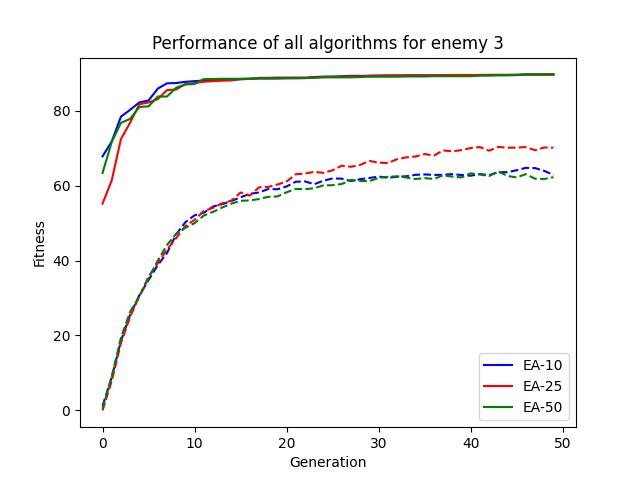
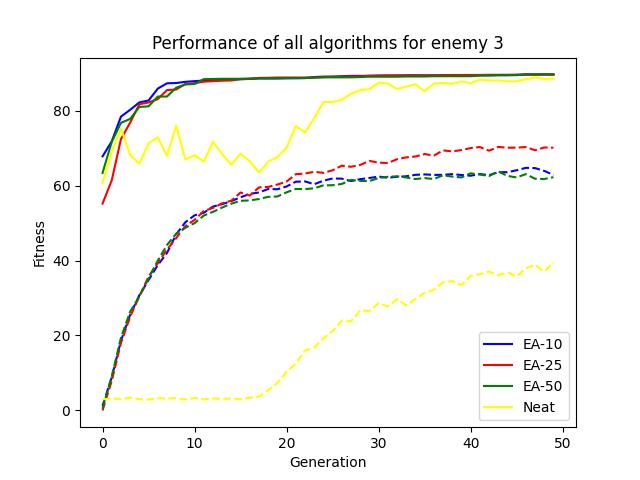
added neat results and added them to plot

diff --git a/ea_visualisations.py b/ea_visualisations.py
@@ -18,25 +18,36 @@ def add_mean_max(mean_fit_gen, max_fit_gen, name, color):
     plt.plot(mean_fit_gen, linestyle='--', color=color)
     plt.plot(max_fit_gen, linestyle='-', color=color, label=name)
 
+def select_mean_max(df, enemy):
+    if df.name == 'Neat':
+            df2 = df.loc[df['Enemy'] == enemy]
+            mean_fit_gen = df2['Mean'].reset_index(drop=True)
+            max_fit_gen = df2['Best'].reset_index(drop=True)
+    else:
+        df2 = df.loc[df['Enemy'] == enemy]
+        mean_fit_gen = df2.groupby('Gen')['Mean_fit'].mean()
+        max_fit_gen = df2.groupby('Gen')['Max_fit'].mean()
+    return (mean_fit_gen, max_fit_gen)
 
 def plot_enemy(total_df, enemy):
     """Creates a plot for each enemy, including all types of algorithms and their
        mean and max fitness values. 
     """
+    # create the plot 
     plt.plot()
     plt.title(f"Performance of all algorithms for enemy {enemy}")
     plt.xlabel("Generation")
     plt.ylabel("Fitness")
 
     for df in total_df:
-        df2 = df.loc[df['Enemy'] == enemy]
-        mean_fit_gen = df2.groupby('Gen')['Mean_fit'].mean()
-        max_fit_gen = df2.groupby('Gen')['Max_fit'].mean()
-        add_mean_max(mean_fit_gen, max_fit_gen, df.name, df.color)
+        # select the mean and max fitness for each generation
+        mean_fit, max_fit = select_mean_max(df, enemy)
+        # add mean and max values to the plot 
+        add_mean_max(mean_fit, max_fit, df.name, df.color)
+    
     plt.legend()
     plt.savefig(f'fig_enemy_{enemy}.jpg')
     plt.cla()
-
 
 if __name__ == "__main__":
     # load csv files 
@@ -51,22 +62,13 @@ if __name__ == "__main__":
     ea50 = pd.read_csv('ea50_results.csv')
     ea50.name = "EA-50"
     ea50.color = "Green"
-
-    # df1 = pd.read_csv('ea10_best.csv')
-    # df2 = pd.read_csv('ea10_best2.csv')
-    # df_merged = df1.append(df2, ignore_index=True)
-    # df_merged.to_csv('ea10_best.csv', index=False)
-    # # df = pd.read_csv('ea10_results.csv')
-    # # df.drop(columns=df.columns[0], axis=1, inplace=True)
-    # # df.to_csv('ea10_results.csv', index=False)
     
-    # neat = pd.read_csv('neat_results.csv')
-    # neat.name = "Neat"
-    # neat.color = "Blue"
+    neat = pd.read_csv('neat_results.csv')
+    neat.name = "Neat"
+    neat.color = "Yellow"
 
-    # total_df = [ea10, ea25, ea50, neat]
-    total_df = [ea10, ea25, ea50]
-    
+    total_df = [ea10, ea25, ea50, neat]
+
     enemies = [3, 6, 8]
     
     # create line plot with mean and max for each enemy

diff --git a/voorpret.py b/voorpret.py
@@ -1,0 +1,17 @@
+
+    # imports libraries 
+import pandas as pd
+from csv import reader, writer
+import matplotlib.pyplot as plt
+    
+# df1 = pd.read_csv('Average_8.csv')
+# df1.insert(0, 'Enemy', 8)
+# df1.insert(0, 'Exp_name', 'neat')
+# df1.to_csv('neat_8_results.csv', index=False)
+
+df = pd.concat(map(pd.read_csv, ['neat_3_results.csv', 'neat_6_results.csv', 'neat_8_results.csv']), ignore_index=True)
+# df2 = pd.read_csv('ea10_best2.csv')
+# df_merged = df1.append(df2, ignore_index=True)
+# df_merged2 = df_merged.append()
+# df = pd.read_csv('ea10_results.csv')
+df.to_csv('neat_results.csv', index=False)
